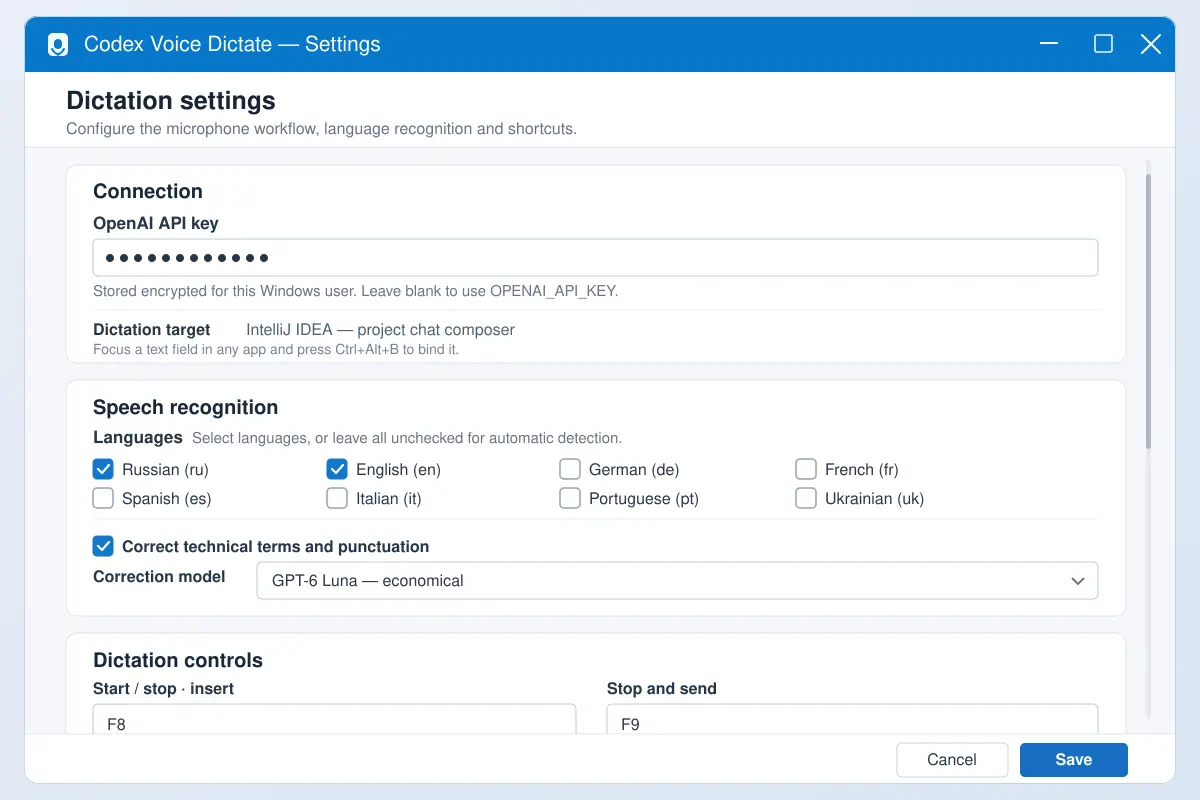
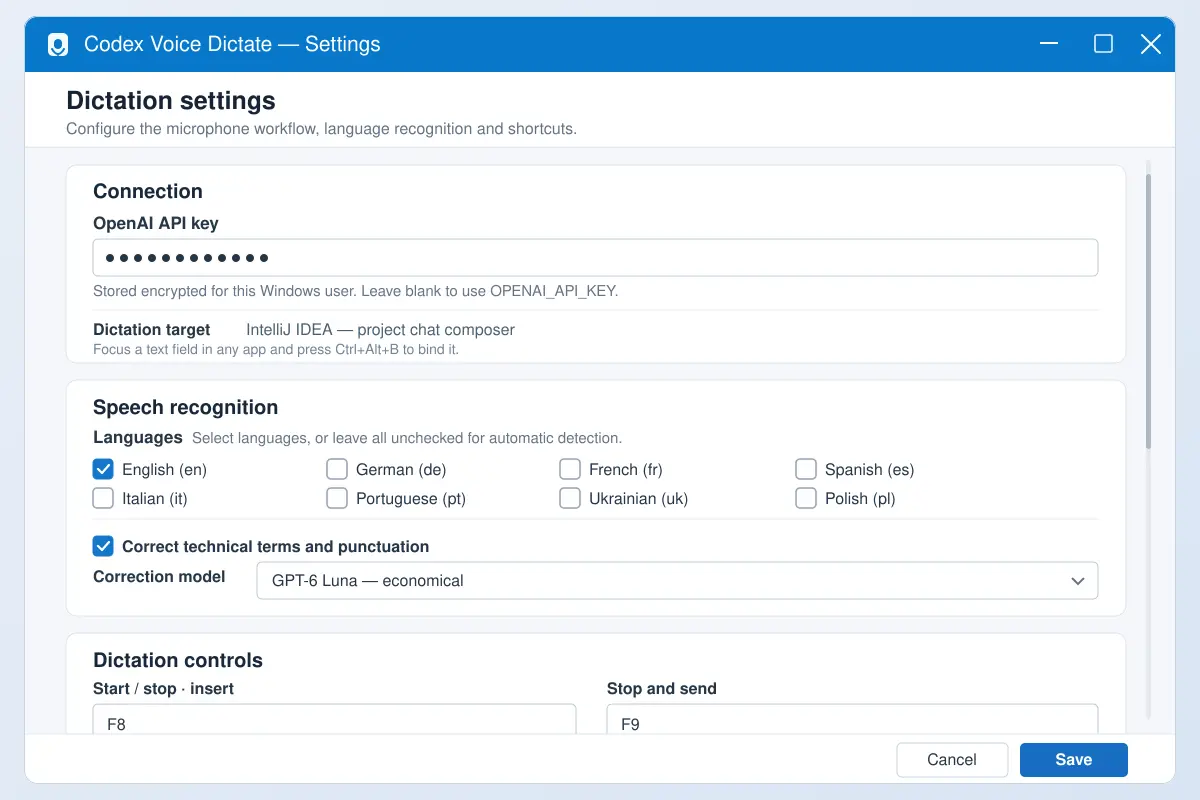
portfolio: simplify Codex Voice link and language preview

diff --git a/index.html b/index.html
@@ -237,8 +237,8 @@
             <div>
               <h3>Codex Voice Dictate — voice input across Windows apps</h3>
               <p>I built an open-source Windows tray app that transcribes spoken coding instructions with OpenAI and inserts them into Codex, IntelliJ IDEA and other text fields—without an IDE plugin.</p>
-              <p>It supports multiple recognition languages, configurable insert/send shortcuts, explicit field binding and clear tray status indicators. A self-contained Windows executable is available to download.</p>
-              <p class="project-links"><a href="https://github.com/ilinic/Codex_Voice_Dictate">GitHub</a><a href="https://github.com/ilinic/Codex_Voice_Dictate/releases/latest/download/CodexVoiceDictate.exe">Download for Windows</a></p>
+              <p>It supports multiple recognition languages, configurable insert/send shortcuts, explicit field binding and clear tray status indicators.</p>
+              <p class="project-links"><a href="https://github.com/ilinic/Codex_Voice_Dictate">GitHub</a></p>
             </div>
             <figure class="project-gallery project-gallery-light" style="--gallery-ratio: 3 / 2;" data-gallery data-gallery-title="Codex Voice Dictate" aria-label="Codex Voice Dictate settings preview">
               <button class="project-image-button" type="button" aria-label="Enlarge Codex Voice Dictate settings preview" aria-haspopup="dialog">
